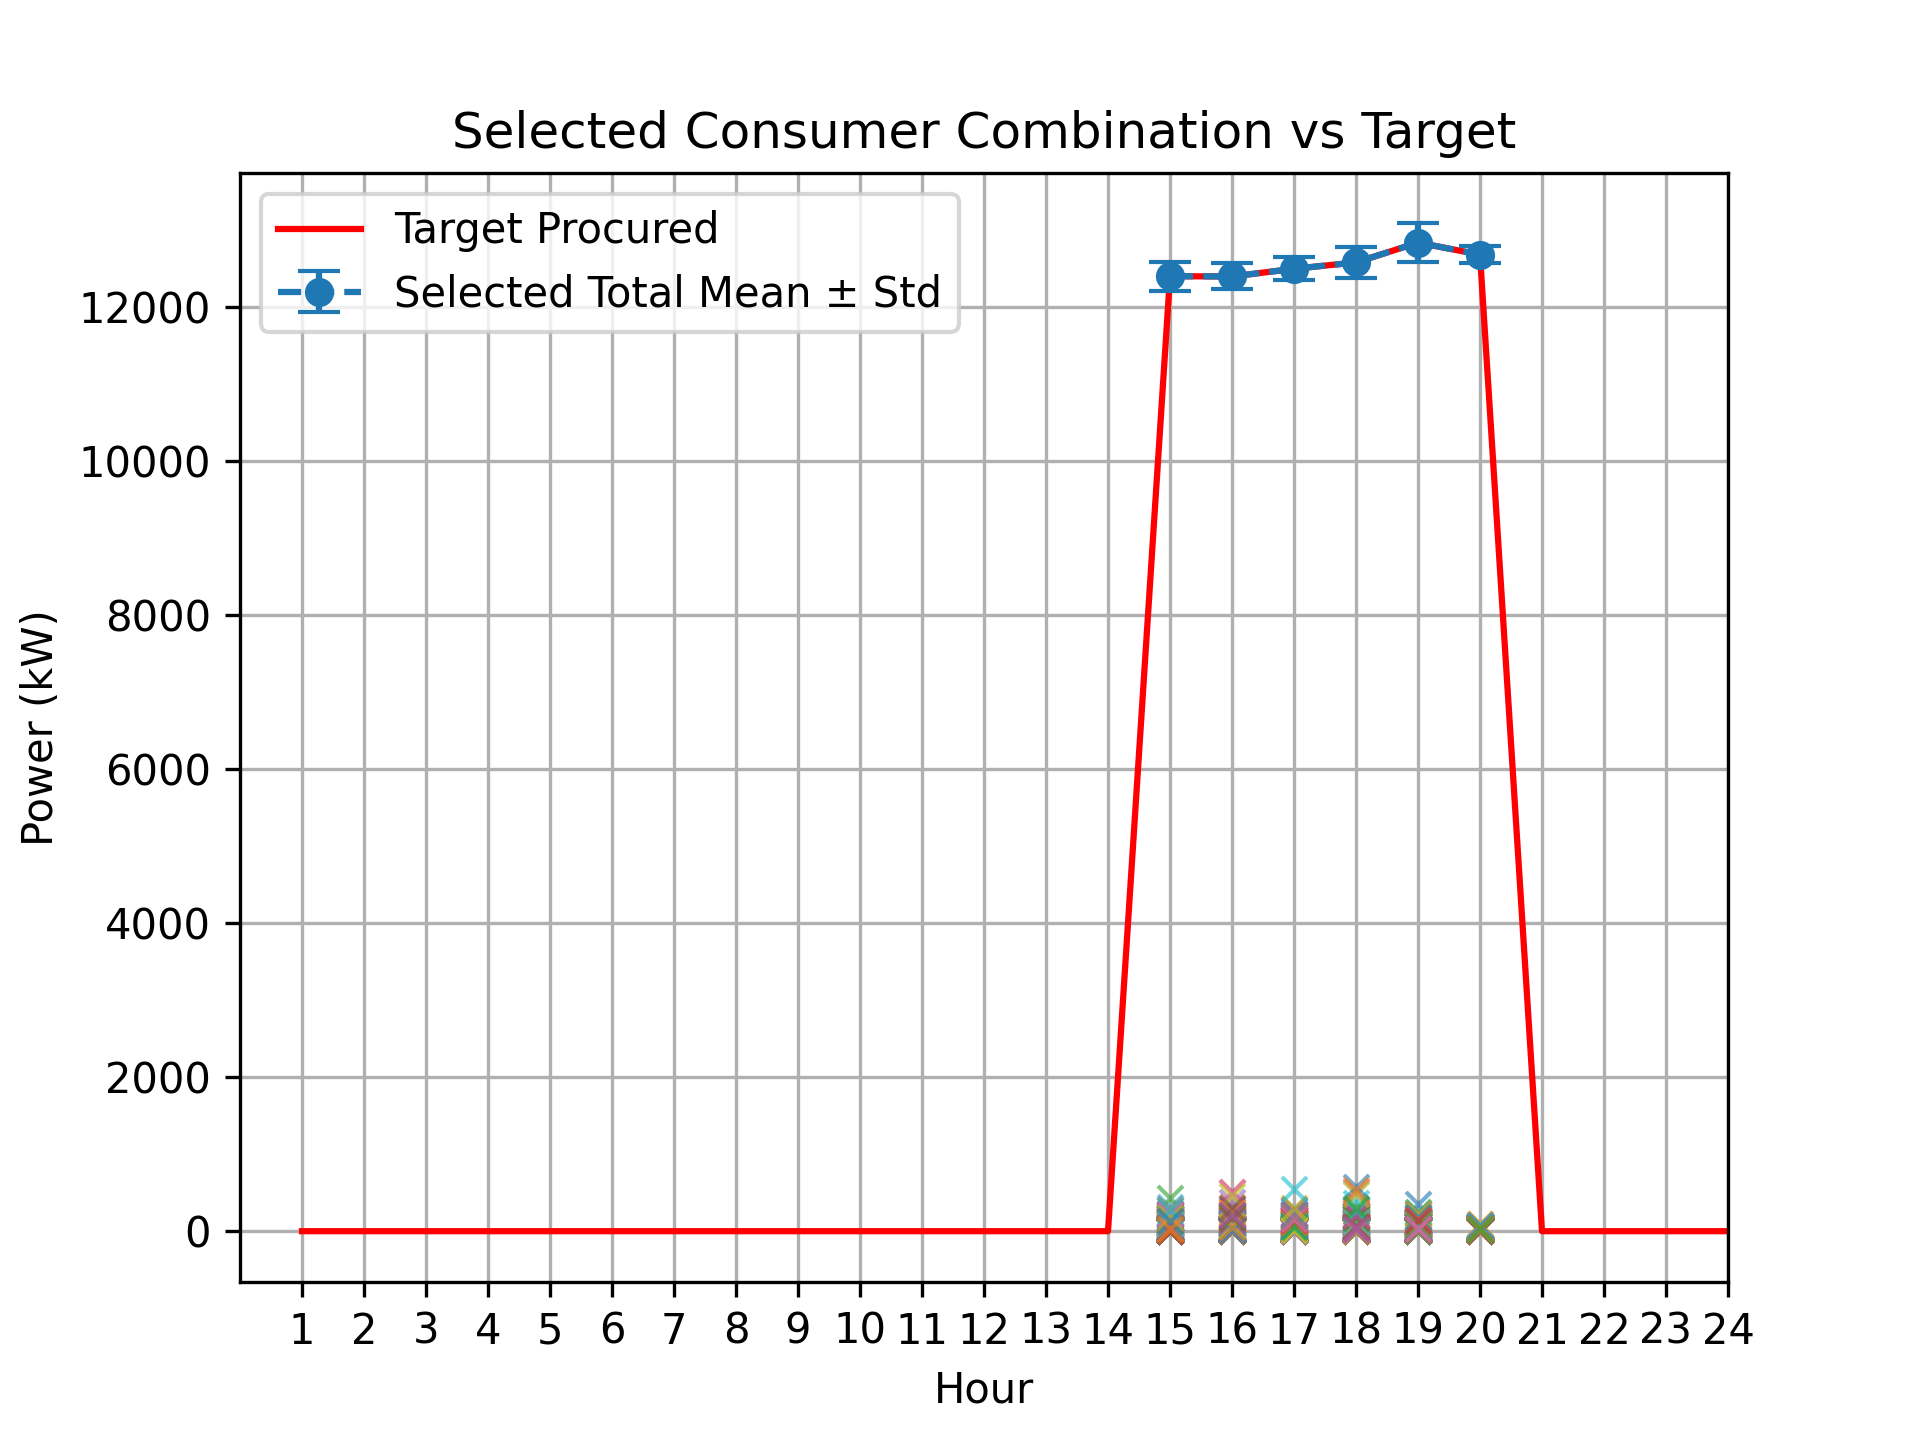
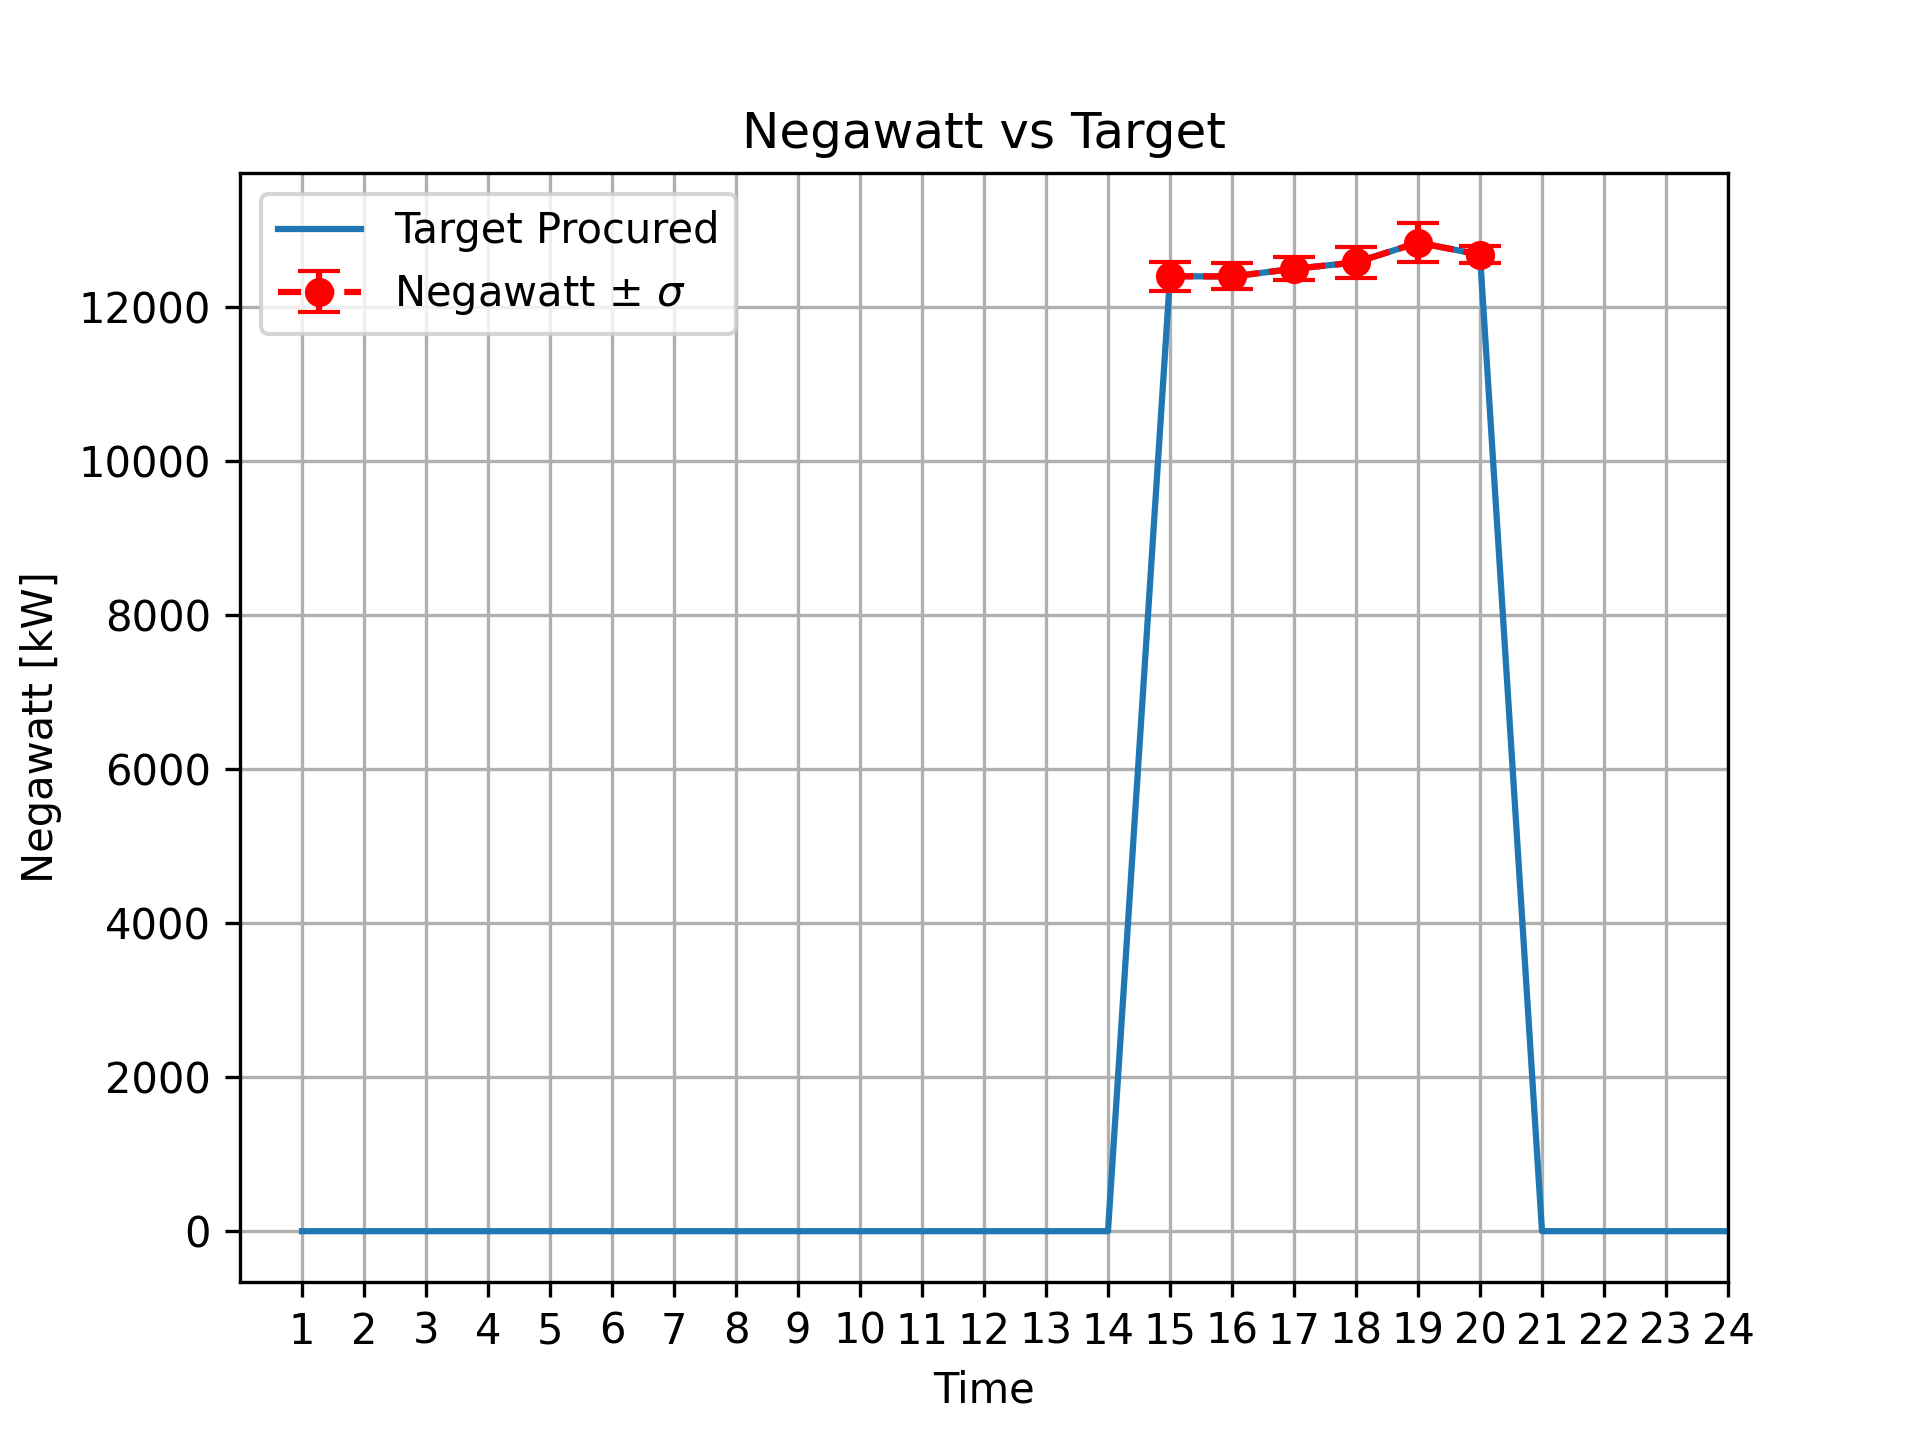
modified:   procured_gurobi.py 	new file:   procured_gurobi_eachtime.py

diff --git a/procured_gurobi.py b/procured_gurobi.py
@@ -1,7 +1,6 @@
 import pandas as pd
 import gurobipy as gp
 from gurobipy import GRB
-import os
 
 # 入力ファイル
 df_pred = pd.read_csv('output/predicted_negawatt_hourly_stats.csv')
@@ -10,61 +9,79 @@ df_target = pd.read_csv('output/procured_negawatt_hour15_20_ratio0_80.csv')
 # 結果格納用
 result_rows = []
 
-try:
-    # 各時間帯ごとに処理
-    for _, row in df_target.iterrows():
-        hour = int(row['Hour'])
-        target = row['Procured']
+# 時間帯の一覧（3の倍数）
+group_start_hours = sorted(df_target['Hour'].unique())
+group_start_hours = [h for h in group_start_hours if h % 3 == 0]
 
-        # 対象時間帯データ抽出
-        df_hour = df_pred[df_pred['Hour'] == hour]
-        consumers = df_hour['Consumer'].tolist()
-        means = df_hour['Mean'].tolist()
+for start_hour in group_start_hours:
+    group_hours = [start_hour, start_hour + 1, start_hour + 2]
 
-        # モデル作成
-        m = gp.Model()
-        m.Params.OutputFlag = 0  # ログ非表示
+    # 対象となる3時間すべてのデータを抽出
+    df_group = df_pred[df_pred['Hour'].isin(group_hours)]
+    df_targets_group = df_target[df_target['Hour'].isin(group_hours)]
 
-        # バイナリ変数：選ばれるかどうか
-        x = m.addVars(len(consumers), vtype=GRB.BINARY, name="x")
+    # すべての需要家（全時間帯共通で同じconsumerにする）
+    consumers = sorted(df_group['Consumer'].unique())
+    n = len(consumers)
 
-        # 合計量
-        total_mean = gp.quicksum(means[i] * x[i] for i in range(len(consumers)))
+    # 各時間帯ごとのmean値を辞書にまとめる
+    means_by_hour = {
+        h: df_group[df_group['Hour'] == h].set_index('Consumer')['Mean'].reindex(consumers).fillna(0).tolist()
+        for h in group_hours
+    }
+    targets_by_hour = {
+        row['Hour']: row['Procured']
+        for _, row in df_targets_group.iterrows()
+    }
 
-        # 目的関数：合計値とターゲットとの差の絶対値を最小化
-        diff_pos = m.addVar(lb=0, name="diff_pos")
-        diff_neg = m.addVar(lb=0, name="diff_neg")
+    # モデル作成
+    m = gp.Model()
+    m.Params.OutputFlag = 0  # ログ非表示
+
+    # バイナリ変数（全時間帯共通）
+    x = m.addVars(n, vtype=GRB.BINARY, name="x")
+
+    # 各時間帯の誤差変数
+    diffs_pos = {}
+    diffs_neg = {}
+
+    for h in group_hours:
+        means = means_by_hour[h]
+        target = targets_by_hour[h]
+
+        total_mean = gp.quicksum(means[i] * x[i] for i in range(n))
+
+        diff_pos = m.addVar(lb=0, name=f"diff_pos_{h}")
+        diff_neg = m.addVar(lb=0, name=f"diff_neg_{h}")
         m.addConstr(total_mean - target == diff_pos - diff_neg)
-        m.setObjective(diff_pos + diff_neg, GRB.MINIMIZE)
 
-        # 解く
-        m.optimize()
+        diffs_pos[h] = diff_pos
+        diffs_neg[h] = diff_neg
 
-        # 解の抽出
-        selected = [consumers[i] for i in range(len(consumers)) if x[i].X > 0.5]
-        total = sum(means[i] for i in range(len(consumers)) if x[i].X > 0.5)
+    # 目的関数：誤差の合計最小化
+    m.setObjective(
+        gp.quicksum(diffs_pos[h] + diffs_neg[h] for h in group_hours),
+        GRB.MINIMIZE
+    )
+
+    # 最適化
+    m.optimize()
+
+    # 解の抽出
+    selected = [consumers[i] for i in range(n) if x[i].X > 0.5]
+    selected_count = len(selected)
+
+    for h in group_hours:
+        means = means_by_hour[h]
+        target = targets_by_hour[h]
+        total = sum(means[i] for i in range(n) if x[i].X > 0.5)
         diff = abs(total - target)
-
-        total_consumers = len(consumers)
-        selected_count = len(selected)
-        print(f"Hour {hour}: 選択された需要家数 = {selected_count} / 全需要家数 = {total_consumers}")
-        print(f"total {total}, target{target}, diff{diff}")
+        print(f"Hour {h}: total={total:.2f}, target={target:.2f}, diff={diff:.2f}, 選択数={selected_count}/{n}")
 
         result_rows.append({
-            'Hour': hour,
+            'Hour': h,
             'Procured': target,
             'Selected_Consumers': ';'.join(selected),
             'Total_Mean': total,
             'Difference': diff
         })
-
-except gp.GurobiError as e:
-    print(f"Gurobi error at hour {hour}: {e}")
-
-# 出力保存
-df_result = pd.DataFrame(result_rows)
-os.makedirs('output', exist_ok=True)
-df_result.to_csv('output/optimal_consumer_combination.csv', index=False)
-
-
-print("optimal_consumer_combination.csv を出力しました。")

diff --git a/procured_gurobi_eachtime.py b/procured_gurobi_eachtime.py
@@ -1,0 +1,66 @@
+import pandas as pd
+import gurobipy as gp
+from gurobipy import GRB
+import os
+
+# 入力ファイル
+df_pred = pd.read_csv('output/predicted_negawatt_hourly_stats.csv')
+df_target = pd.read_csv('output/procured_negawatt_hour15_20_ratio0_80.csv')
+
+# 結果格納用
+result_rows = []
+
+# 各時間帯ごとに処理
+for _, row in df_target.iterrows():
+    hour = int(row['Hour'])
+    target = row['Procured']
+
+    # 対象時間帯データ抽出
+    df_hour = df_pred[df_pred['Hour'] == hour]
+    consumers = df_hour['Consumer'].tolist()
+    means = df_hour['Mean'].tolist()
+
+    # モデル作成
+    m = gp.Model()
+    m.Params.OutputFlag = 0  # ログ非表示
+
+    # バイナリ変数：選ばれるかどうか
+    x = m.addVars(len(consumers), vtype=GRB.BINARY, name="x")
+
+    # 合計量
+    total_mean = gp.quicksum(means[i] * x[i] for i in range(len(consumers)))
+
+    # 目的関数：合計値とターゲットとの差の絶対値を最小化
+    diff_pos = m.addVar(lb=0, name="diff_pos")
+    diff_neg = m.addVar(lb=0, name="diff_neg")
+    m.addConstr(total_mean - target == diff_pos - diff_neg)
+    m.setObjective(diff_pos + diff_neg, GRB.MINIMIZE)
+
+    # 解く
+    m.optimize()
+
+    # 解の抽出
+    selected = [consumers[i] for i in range(len(consumers)) if x[i].X > 0.5]
+    total = sum(means[i] for i in range(len(consumers)) if x[i].X > 0.5)
+    diff = abs(total - target)
+
+    total_consumers = len(consumers)
+    selected_count = len(selected)
+    print(f"Hour {hour}: 選択された需要家数 = {selected_count} / 全需要家数 = {total_consumers}")
+    print(f"total {total}, target{target}, diff{diff}")
+
+    result_rows.append({
+        'Hour': hour,
+        'Procured': target,
+        'Selected_Consumers': ';'.join(selected),
+        'Total_Mean': total,
+        'Difference': diff
+    })
+
+# 出力保存
+df_result = pd.DataFrame(result_rows)
+os.makedirs('output', exist_ok=True)
+df_result.to_csv('output/optimal_consumer_combination.csv', index=False)
+
+
+print("optimal_consumer_combination.csv を出力しました。")

diff --git a/pyplot_procured_result.py b/pyplot_procured_result.py
@@ -59,8 +59,8 @@ full_hours = list(range(1, 25))
 procured_dict = dict(zip(hours, procured_values))
 procured_filled = [procured_dict.get(h, 0) for h in full_hours]
 #plt.figure(figsize=(10, 6))
-plt.plot(full_hours, procured_filled, 'r-', label='Target Procured')
-plt.errorbar(hours, total_means, yerr=total_stds, fmt='o', linestyle='--', label='Selected Total Mean ± Std', capsize=5)
+plt.plot(full_hours, procured_filled, color='tab:blue', linestyle='-', label='Target Procured')
+plt.errorbar(hours, total_means, yerr=total_stds, fmt='o', linestyle='--', color='red', label=r'Negawatt $\pm$ $\sigma$', capsize=5)
 
 # 各需要家の平均値ラインを追加
 for _, row in df_result.iterrows():
@@ -72,13 +72,13 @@ for _, row in df_result.iterrows():
         df_indiv = df_pred[(df_pred['Hour'] == hour) & (df_pred['Consumer'] == consumer)]
         if not df_indiv.empty:
             mean_val = df_indiv['Mean'].values[0]
-            plt.plot(hour, mean_val, marker='x', color=color_cycle[color_idx % len(color_cycle)], alpha=0.6)
+#            plt.plot(hour, mean_val, marker='x', color=color_cycle[color_idx % len(color_cycle)], alpha=0.6)
             color_idx += 1
 
 # 軸とラベル
-plt.xlabel('Hour')
-plt.ylabel('Power (kW)')
-plt.title('Selected Consumer Combination vs Target')
+plt.xlabel('Time')
+plt.ylabel('Negawatt [kW]')
+plt.title('Negawatt vs Target')
 plt.xticks(full_hours)
 plt.grid(True)
 plt.legend()

diff --git a/pyplot_total_power_consumption.py b/pyplot_total_power_consumption.py
@@ -1,3 +1,6 @@
+import matplotlib
+import tkinter
+matplotlib.use('TkAgg')
 import pandas as pd
 import numpy as np
 import os
@@ -96,7 +99,7 @@ plt.fill_between(x,
                  alpha=0.3, label=r'$\pm \sigma$')
 
 plt.plot(x, reduced_total.values, label=f'Reduced (ratio={ratio})', linestyle='--', marker='s', color='green')
-plt.plot(x, reduced_diff.values, label='Reduction Amount', linestyle=':', marker='x', color='orange')
+#plt.plot(x, reduced_diff.values, label='Reduction Amount', linestyle=':', marker='x', color='orange')
 
 # 実測（6月1日）があれば追加プロット
 actual_all = []
@@ -119,9 +122,9 @@ for _, row in df_kanto.iterrows():
 #    plt.plot(actual_mean.index.values, actual_mean.values, label='Measured (6/1)',
 #             linestyle='-', marker='D', color='red')
 
-plt.title('Power Consumption Forecast for June 1')
+plt.title('Electric Power Consumption Forecast for June 1')
 plt.xlabel('Time')
-plt.ylabel('Power Consumption [kWh]')
+plt.ylabel('Electric Power Consumption [kWh]')
 plt.xticks(x)
 plt.grid(True)
 plt.legend()
